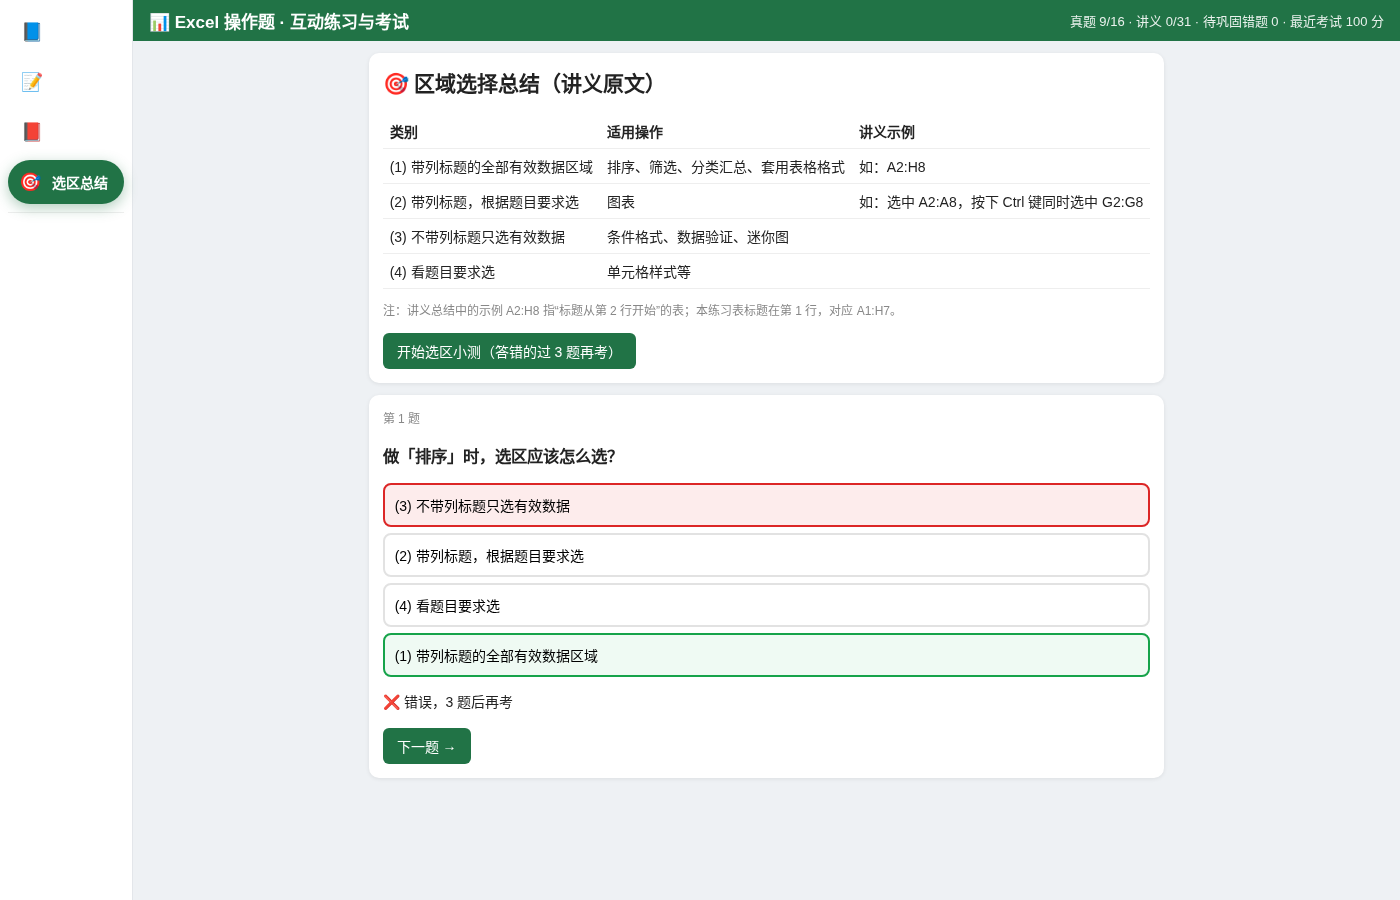
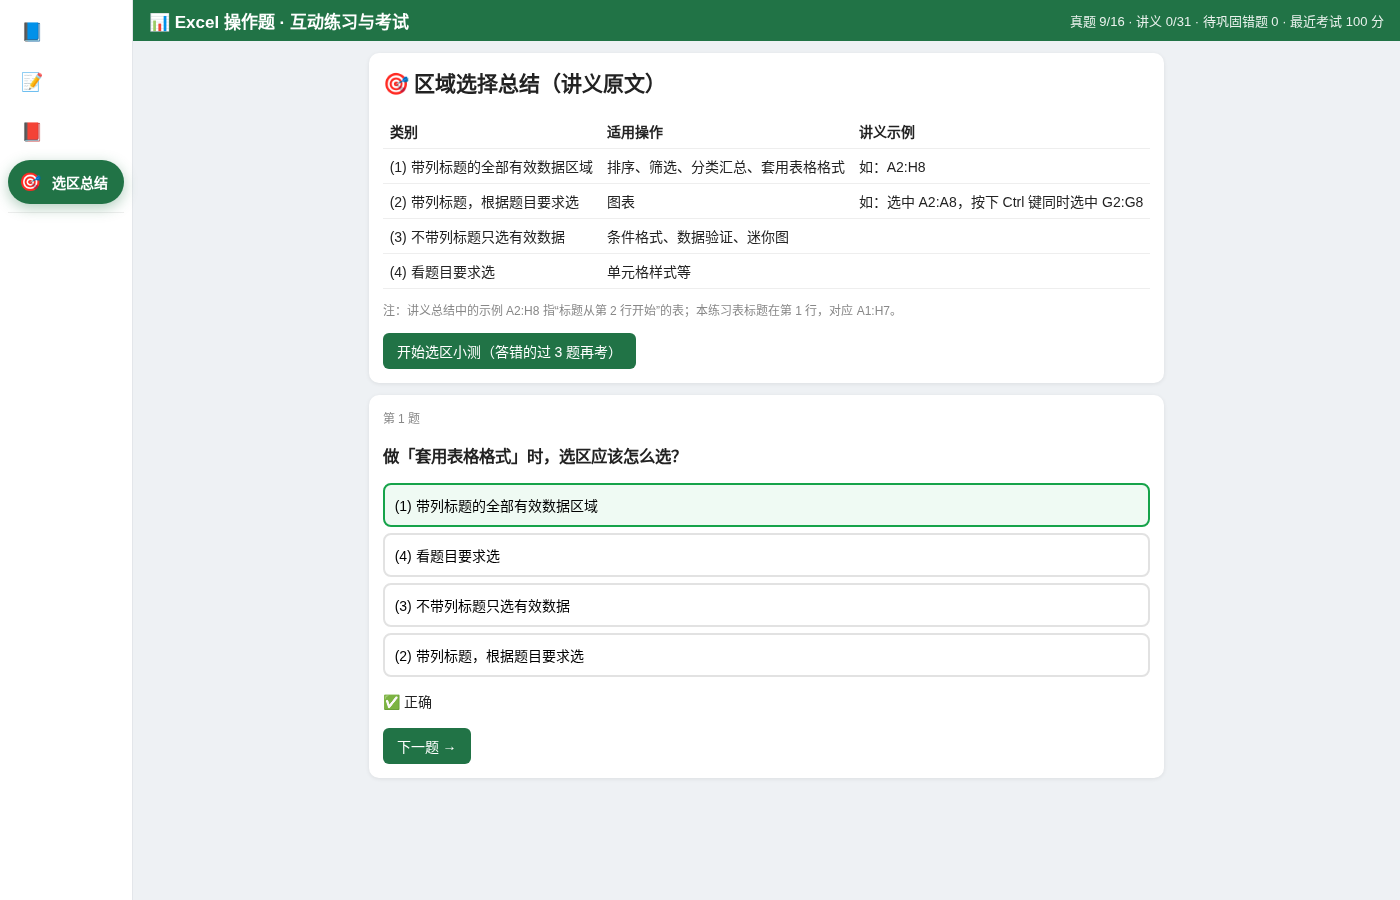
讲义5/13/14 精确选区判分与提示；v13 表格含 E3:E8；sw v5

Changed region(s): [[0.2764, 0.4978, 0.4914, 0.6222], [0.2764, 0.7156, 0.43, 0.8089], [0.2764, 0.6533, 0.3993, 0.6844]]

diff --git a/index.html b/index.html
@@ -455,11 +455,12 @@ const DESC=/按题目要求|指定|题目要求|规则和格式/;
 const isRV=(qn,st)=>qn=='13'&&/数值/.test(st.target)||qn=='29'&&['setting','confirm','drag'].includes(st.type);
 let JQ={},JIDS=[],JPOOL=[],J={sheetAt:0,stepAt:0,sig:''};
 const VID2PDF={};
+const SHEETOV={'13':()=>{const b=base(),c={};Object.entries(b.cells).forEach(([k,v])=>{const [r,cc]=k.split(',');c[(+r+1)+','+cc]=v});c['1,1']={v:'学生成绩表'};return {...b,cells:c}}};
 function loadSteps(obj){/* 可在以后传入新的 JSON（同 practice_steps.json 结构：{questions:{id:[{type,target}]}}）覆盖判分步骤 */
  const qs=obj.qs||Object.entries(obj.questions||{}).map(([n,steps])=>({...(JQ['v'+n]||{}),n,steps}));
  qs.forEach(o=>{const id='v'+o.n,old=JQ[id]||{};const pdf=VID2PDF[o.file||old.vid];
   JQ[id]={id,json:true,n:o.n,vid:o.file||old.vid,title:o.title||old.title,q:o.title||old.title,k:'讲义 '+(o.sec||old.sec||'')+' · 视频 '+(o.file||old.vid)+(pdf?` · ≈真题第${pdf}题`:''),sec:o.sec||old.sec,
-   sheet:pdf&&QS[pdf-1].sheet?QS[pdf-1].sheet:null,raw:o.steps,
+   sheet:SHEETOV[o.n]||(pdf&&QS[pdf-1].sheet?QS[pdf-1].sheet:null),raw:o.steps,
    paths:[o.steps.map(st=>({...st,t:`【${TYN[st.type]||st.type}】${st.target}`,rv:isRV(o.n,st)}))],
    a:o.steps.map((st,i)=>`${i+1}. ${TYN[st.type]||st.type}：${st.target}`).join('<br>')+(obj.rule?`<br><span style="color:#888">判分规则：${obj.rule}</span>`:''),
    note:(obj.notes||{})[o.n]?'⚠ '+obj.notes[o.n]+'（待核对）':''};if(!JIDS.includes(id))JIDS.push(id)});
@@ -481,7 +482,7 @@ function cmdMatch(t,path){const segs=String(t).split('→'),last=segs[segs.lengt
  for(let k=path.length-1;k>=0;k--)if(fm(last,path[k]))return path.slice(k+1);return null}
 function jEvt(ev){if(!E||E.done||!isJ())return;if($('#ov').style.display=='flex'&&ev.k!='dlg')return;const p=jP();jSkipSel();let st=p.s[p.i];if(!st)return;
  if(ev.k=='tab'){if(st.type=='tab'&&tabM(st.target,ev.v)){jAdv();jGood()}return}
- if(st.type=='select'){if(['cmd','inp','drag','key'].includes(ev.k))jBad(`先选中：${st.target}`);return}
+ if(st.type=='select'){if(['cmd','inp','drag','key'].includes(ev.k)){const t=st.target;jBad(/^[A-Z]+\d+:[A-Z]+\d+$/.test(t)?`选区不对：应选中 ${t}（当前选中 ${selStr()}）`:/标签/.test(t)?`应先单击「${t.replace(/\s*标签/,'')}」工作表标签（在表格下方）`:`先选中：${t}`)}return}
  if(ev.k=='click'){if(st.type=='click'){jAdv();jGood()}return}
  if(ev.k=='inp'||ev.k=='key'||ev.k=='drag'){const want={inp:'input',key:'key',drag:'drag'}[ev.k];
   if(st.type!=want)return ev.k=='key'?0:jBad(`这一步应：${st.t}`);

diff --git a/sw.js b/sw.js
@@ -1,4 +1,4 @@
-const C='xlops-v4',F=['./','index.html','manifest.json','icon-192.png','icon-512.png'];
+const C='xlops-v5',F=['./','index.html','manifest.json','icon-192.png','icon-512.png'];
 self.addEventListener('install',e=>{e.waitUntil(caches.open(C).then(c=>c.addAll(F)));self.skipWaiting()});
 self.addEventListener('activate',e=>{e.waitUntil(caches.keys().then(k=>Promise.all(k.filter(x=>x!=C).map(x=>caches.delete(x)))));self.clients.claim()});
 self.addEventListener('fetch',e=>{if(e.request.method!='GET')return;e.respondWith(fetch(e.request).then(r=>{const c=r.clone();caches.open(C).then(x=>x.put(e.request,c));return r}).catch(()=>caches.match(e.request,{ignoreSearch:true}).then(r=>r||caches.match('index.html'))))});
